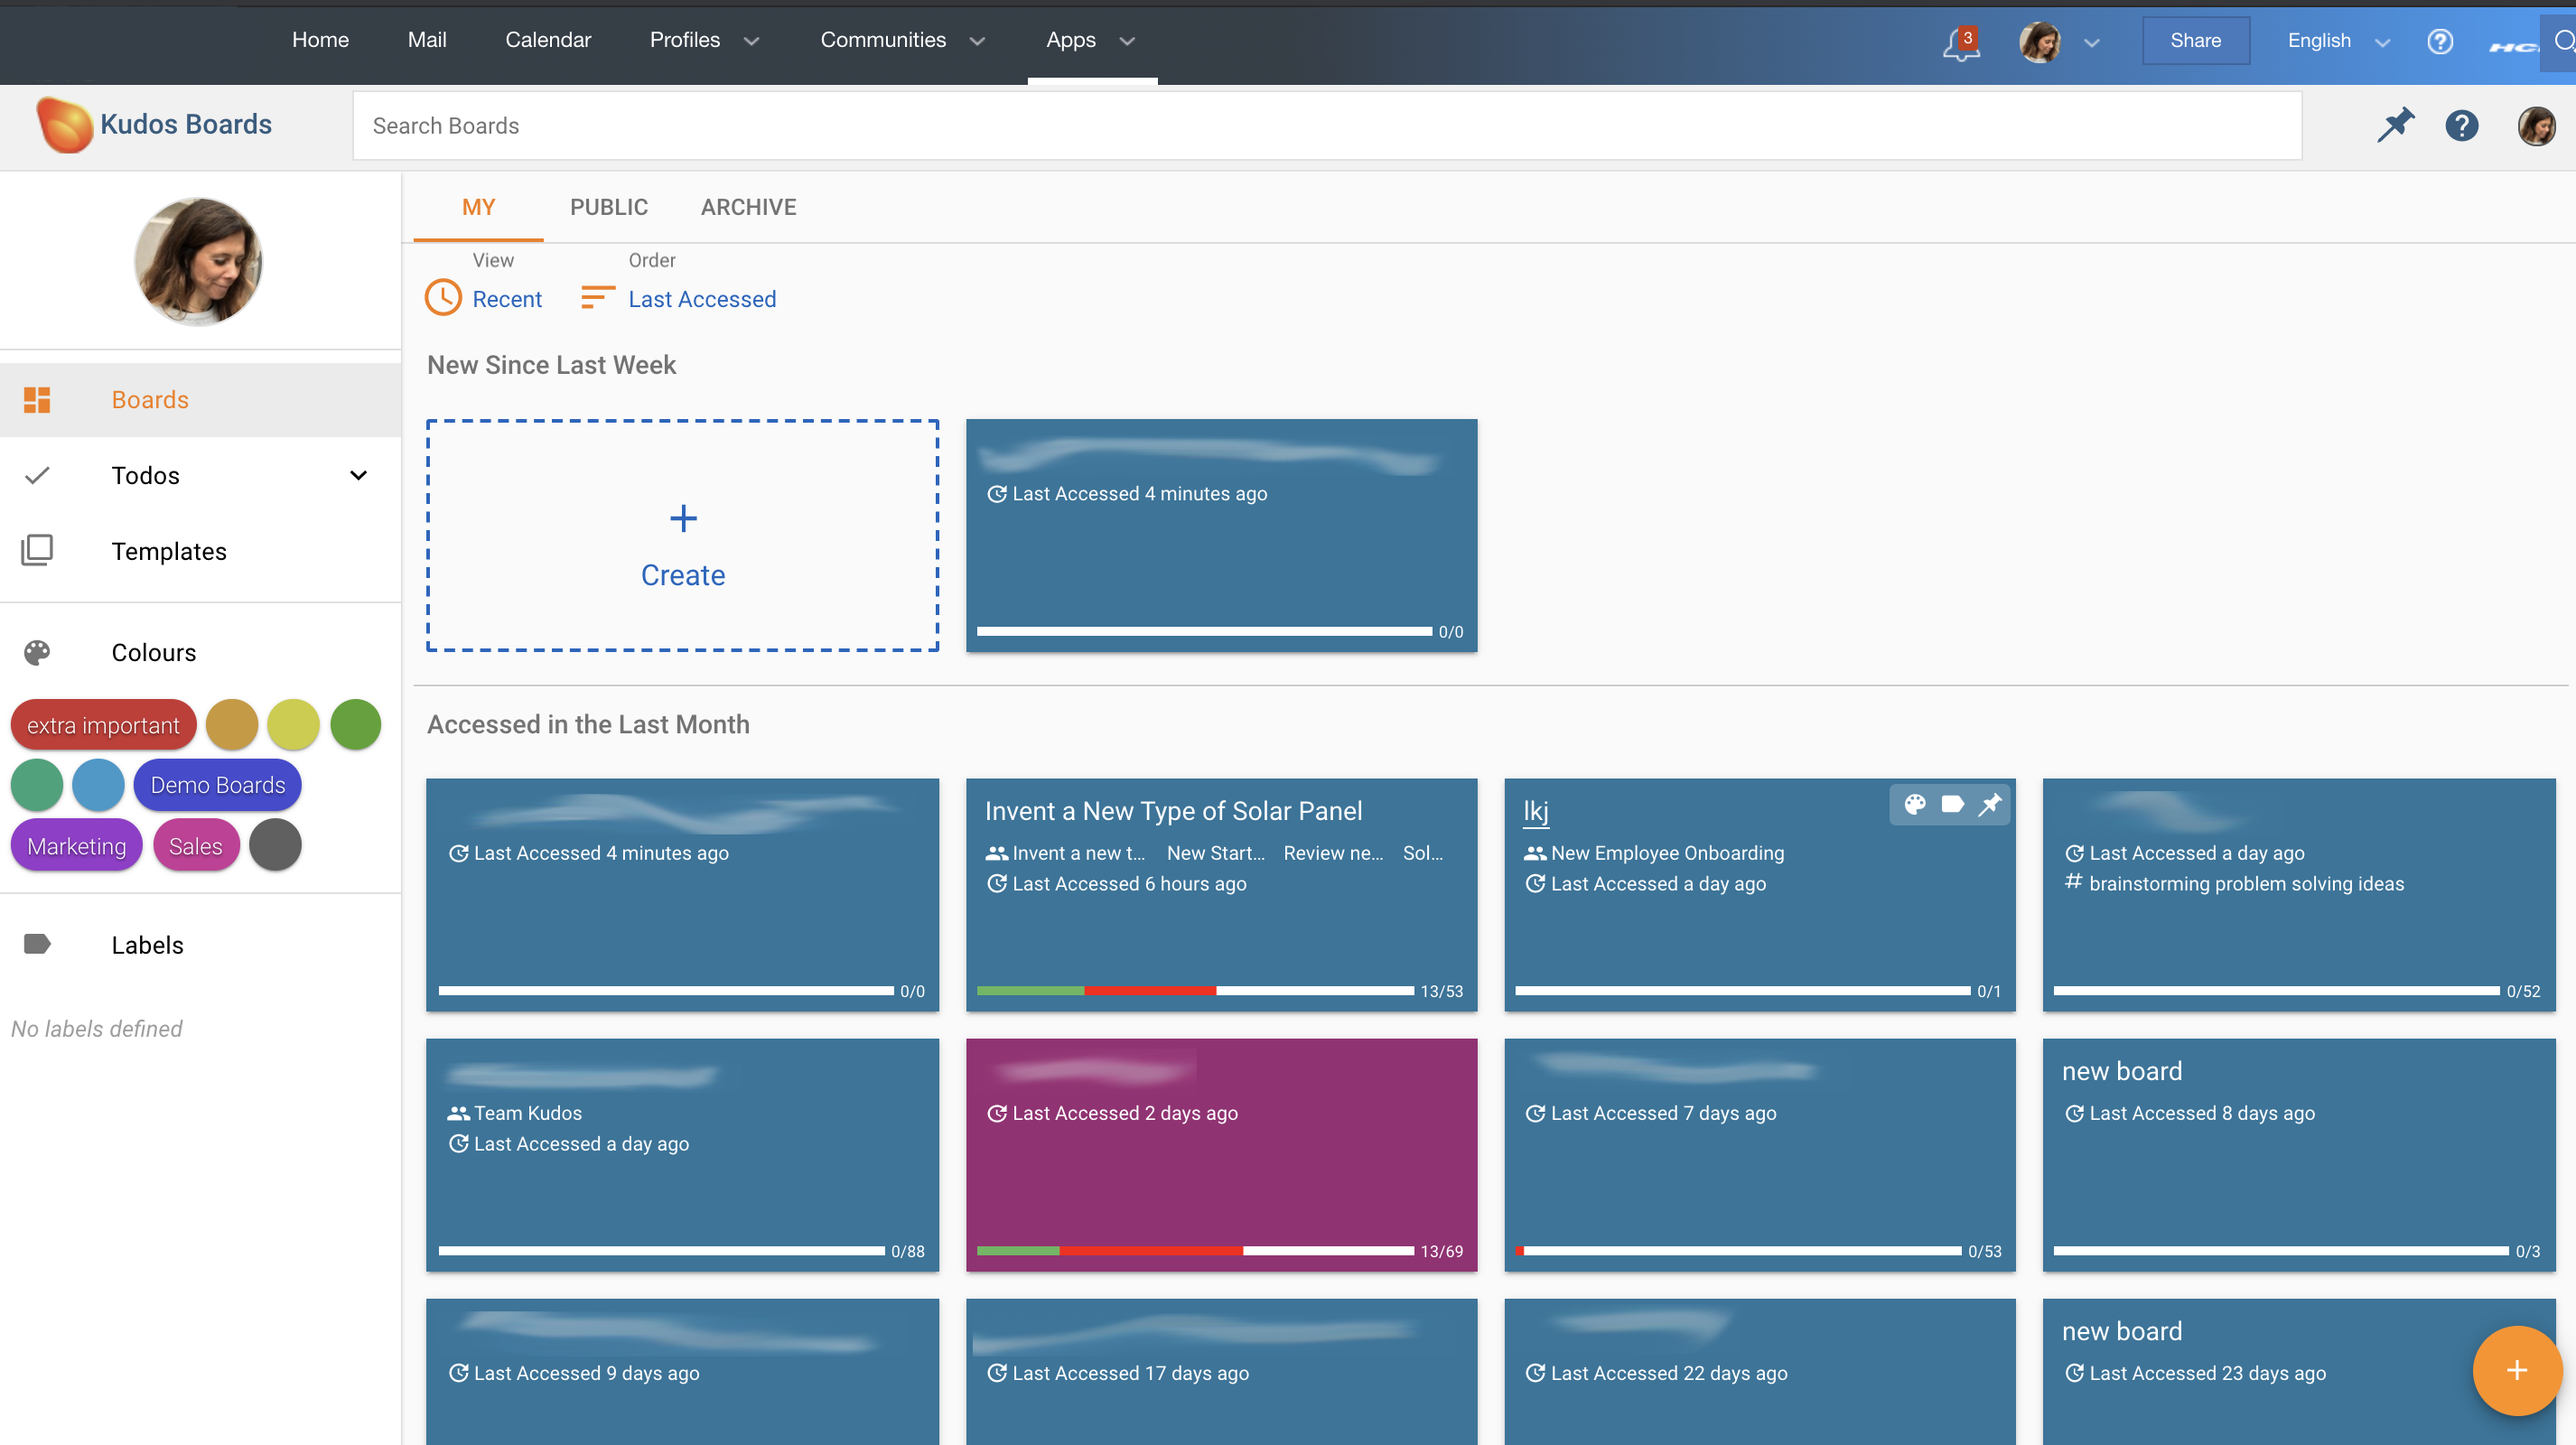
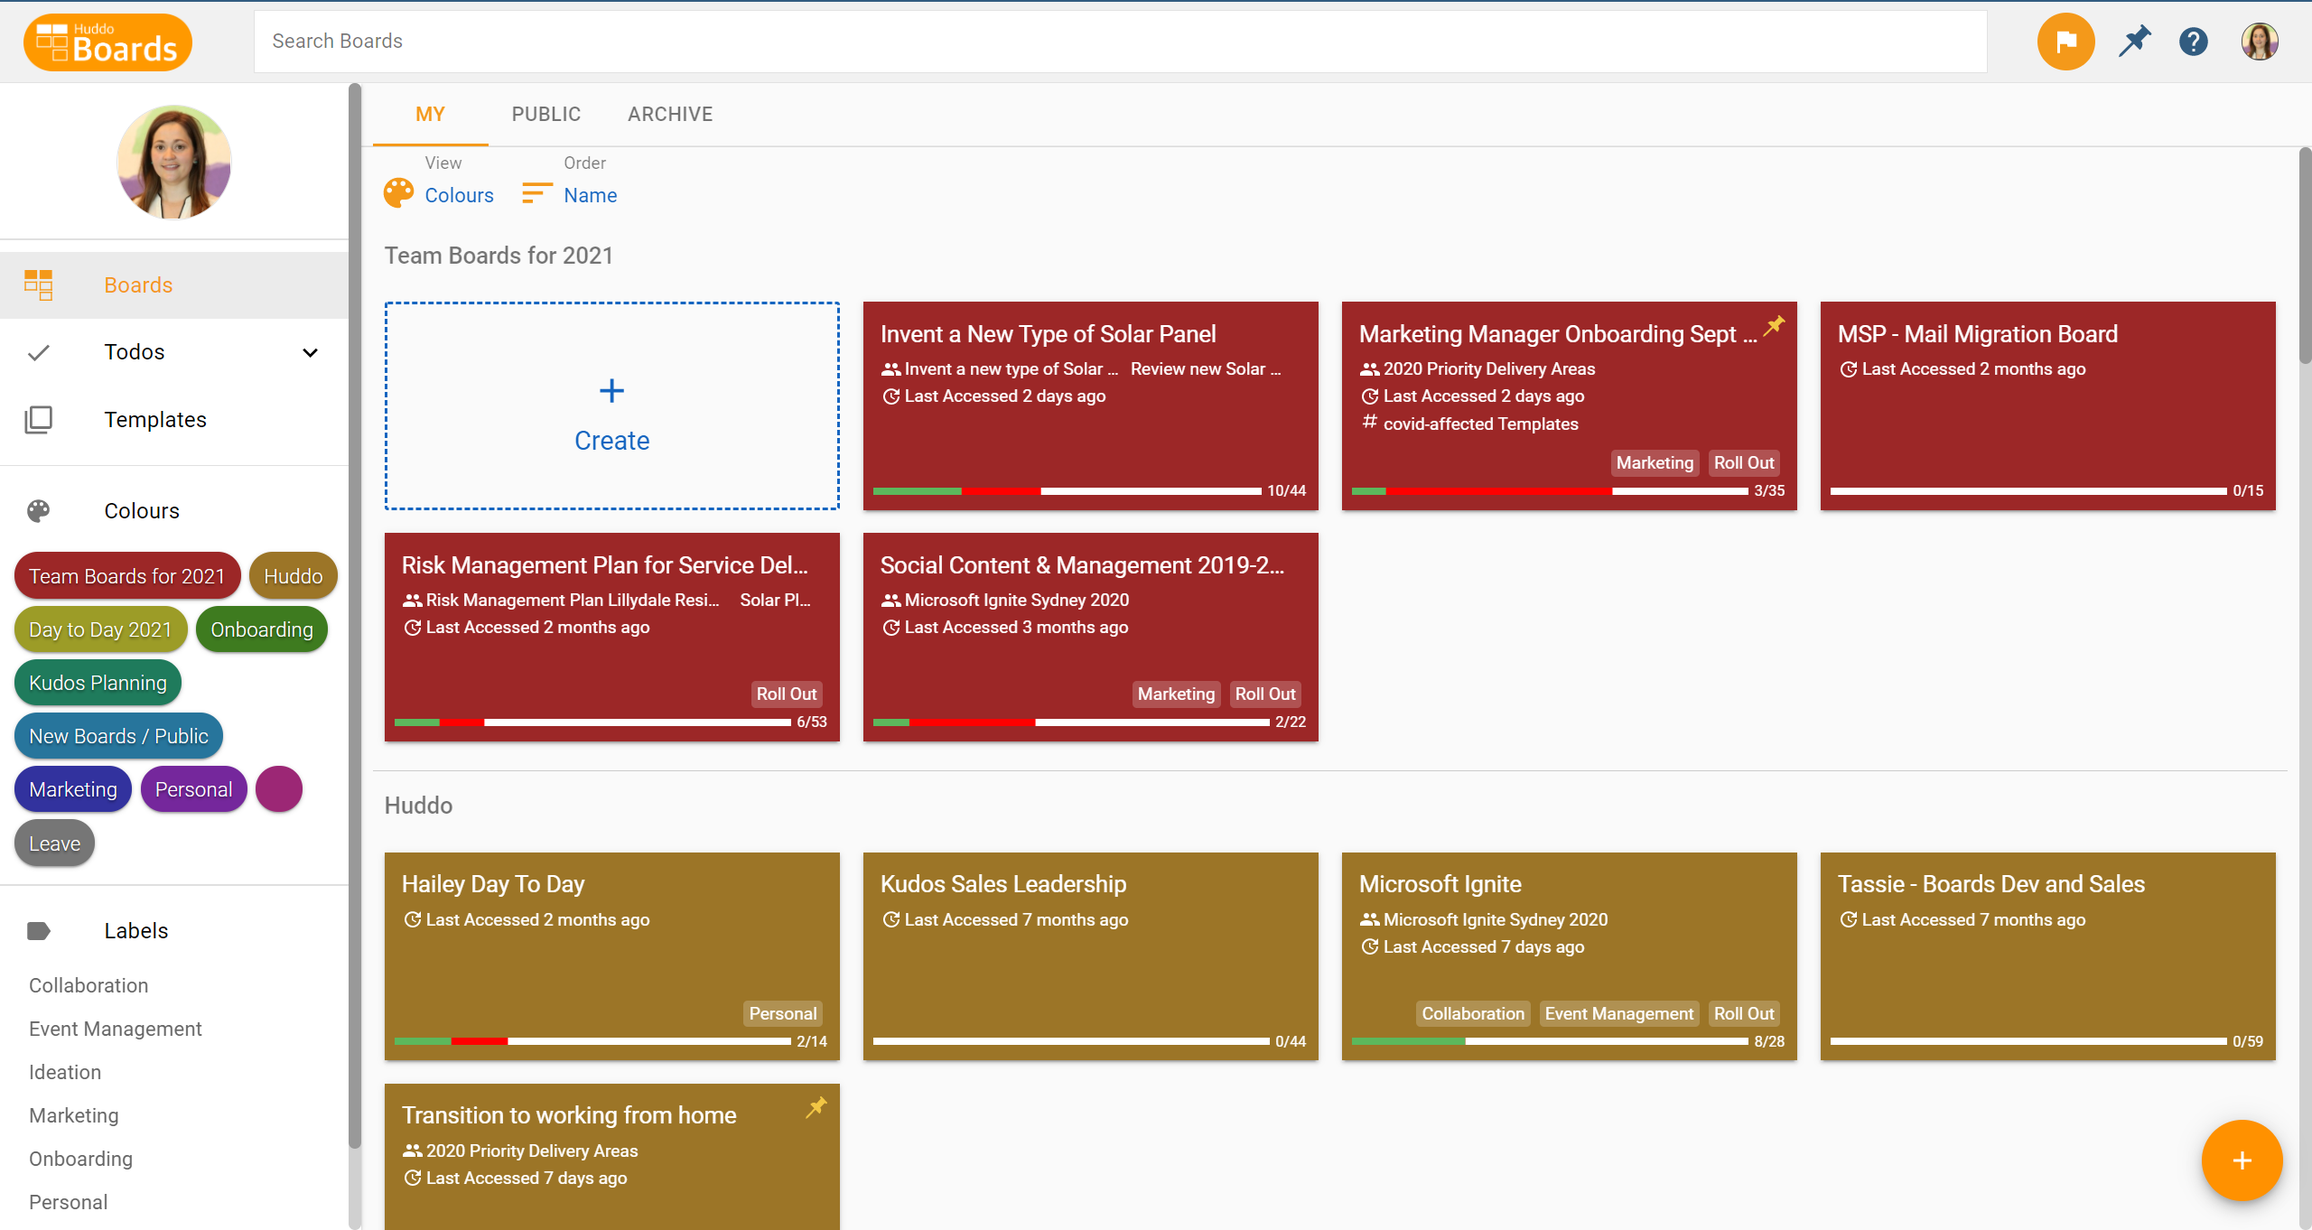
update to image in home page

diff --git a/docs/boards/howto/home-page.md b/docs/boards/howto/home-page.md
@@ -1,6 +1,6 @@
-#Start Page
+#Myboards Dashboard - Home page
 
-The picture below shows a start page with colourful tiles. Each tile is one Board with names (blurred in this image), when it was last accessed, progress on tasks and more.
+The picture below shows the Myboards Dashboar. This is your start / home page with colourful tiles. Each tile is one Board with a name, when it was last accessed, progress on tasks and more.
 
 ![Home Page](../../assets/boards/home-page.png)
 
